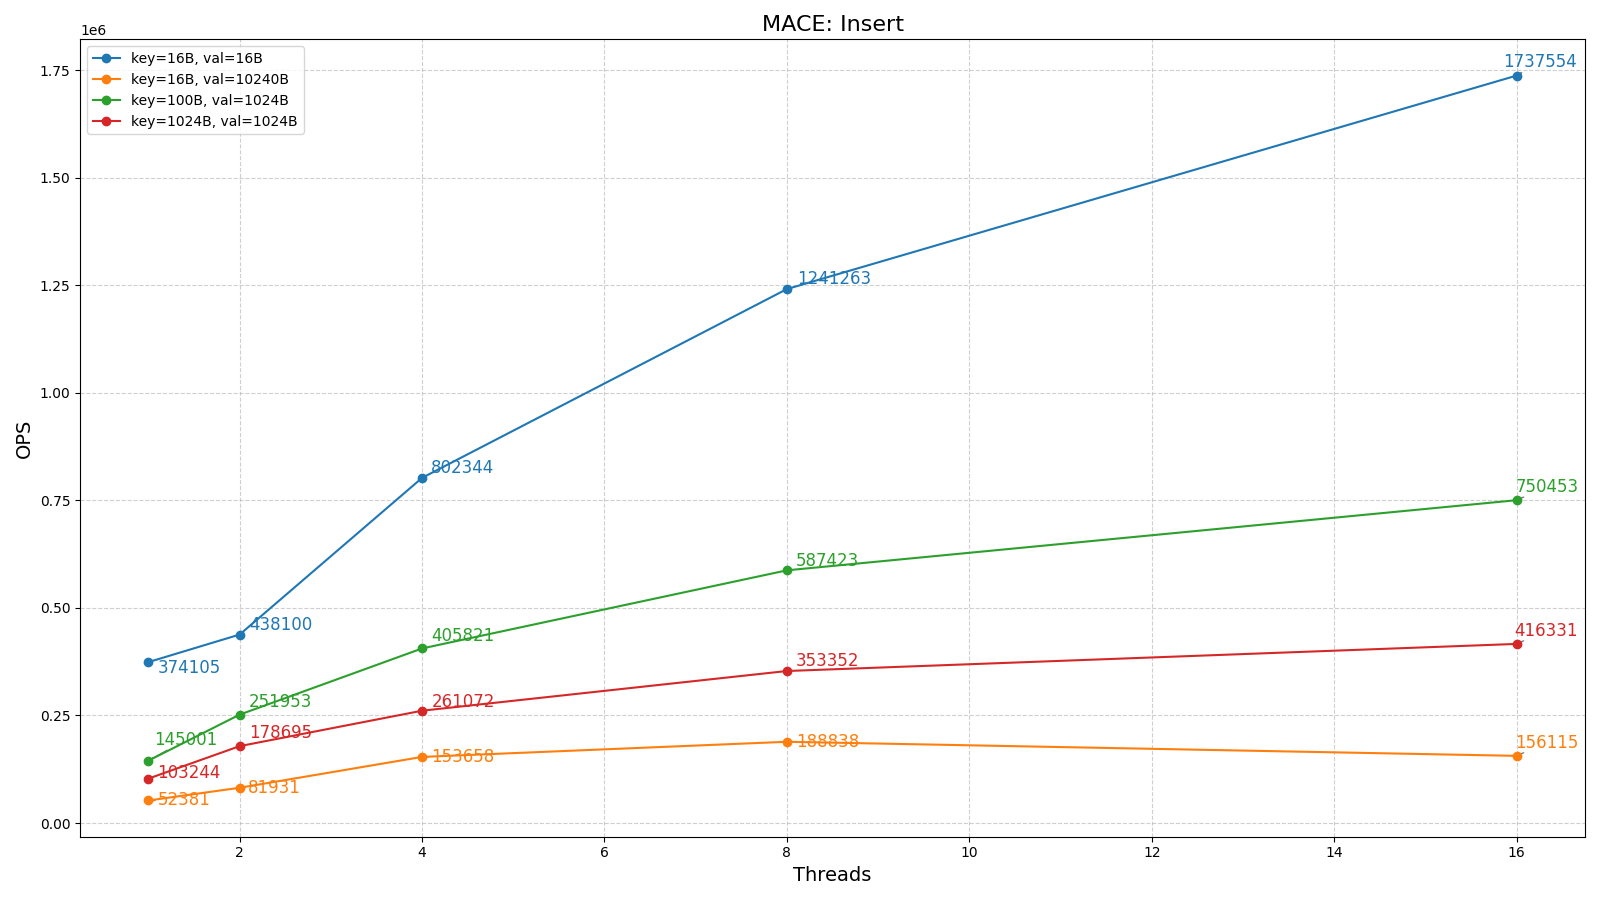
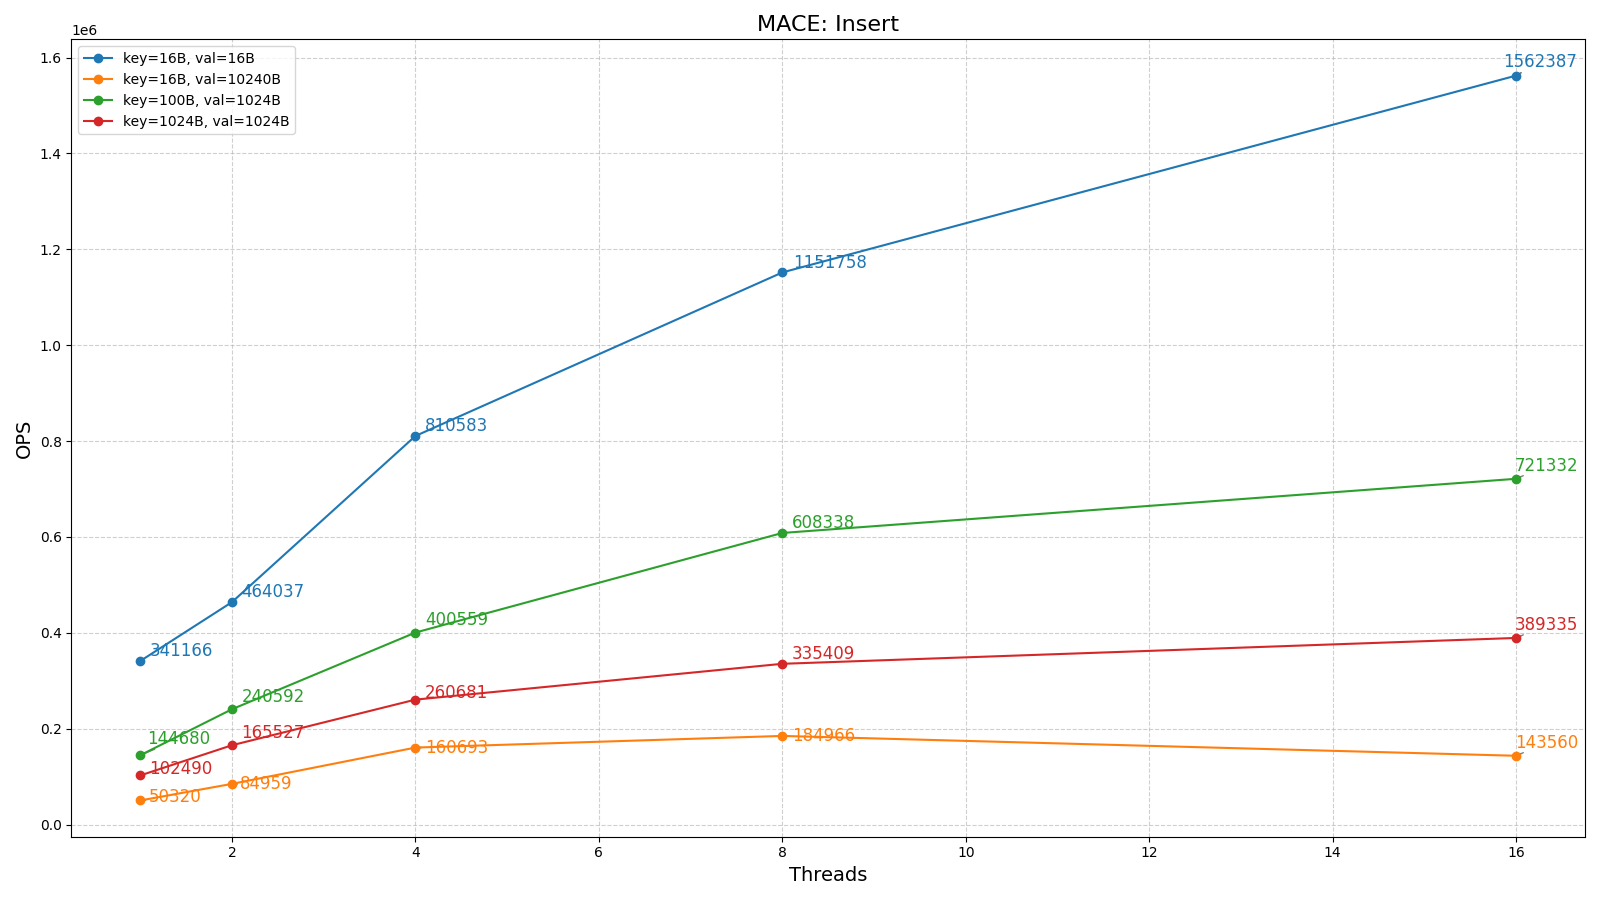
support mace 0.0.22

diff --git a/README.md b/README.md
@@ -1,4 +1,4 @@
-# mace 0.0.21
+# mace 0.0.22 vs rocksdb 10.4.2
 
 ## insert performance (sequential)
 ![mace_insert](./scripts/mace_insert.png)
